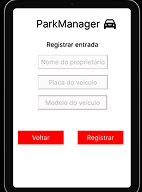
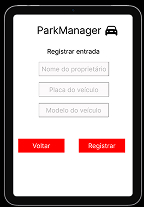
Formatação para tablet arrumada

diff --git a/css/style.css b/css/style.css
@@ -441,7 +441,6 @@ main {
 .registre,
 .saiba {
     width: 460px;
-    font-size: 36px;
     align-items: center;
     justify-content: center;
 }
@@ -449,6 +448,7 @@ main {
 .visualize p,
 .registre p,
 .saiba p {
+    font-size: 36px;
     text-align: center;
 }
 
@@ -507,4 +507,130 @@ footer {
 
 .parkmanager {
     padding: 60px 0px 10px 0px;
+}
+
+/* TABLET - iPad Mini */
+@media(max-width: 1024px) {
+    .animacao {
+        display: none;
+    }
+
+    .titulo p {
+        margin-top: 30px;
+        font-size: 95px;
+    }
+
+    .titulo img {
+        margin-top: 27px;
+    }
+
+    .carrossel {
+        gap: 45px;
+    }
+
+    .seta {
+        width: 70px;
+        height: 70px;
+    }
+
+    .tela1 {
+        width: 157px;
+        height: 212px;
+        background-image: url(../img/tela1-tabl.jpg);
+    }
+
+    .tela2 {
+        width: 144px;
+        height: 207px;
+        background-image: url(../img/tela2-tabl.jpg);
+    }
+
+    .tela3 {
+        width: 144px;
+        height: 210px;
+        background-image: url(../img/tela3-tabl.jpg);
+    }
+
+    .retangulo-branco {
+        height: 65vh;
+    }
+
+    .retangulo-branco p {
+        font-size: 40px;
+        margin: 20px;
+    }
+
+    .descricao p {
+        margin: 10px 20px 20px 20px;
+        font-size: 24px;
+    }
+
+    .vidal img,
+    .rolim img,
+    .jefferson img {
+        width: 150px;
+        height: 150px;
+    }
+
+    .vidal p,
+    .rolim p,
+    .jefferson p {
+        font-size: 24px;
+    }
+
+    .gerencie {
+        font-size: 24px;
+        padding: 50px 0px 40px 0px;
+    }
+
+    .telas {
+        height: 133px;
+        width: 187px;
+    }
+
+    .container {
+        height: 20vh;
+    }
+
+    .visualize,
+    .registre,
+    .saiba {
+        width: 209.3px;
+    }
+
+    .visualize p,
+    .registre p,
+    .saiba p {
+        font-size: 15px;
+    }
+
+    .retangulo h2 {
+        font-size: 48px;
+    }
+
+    .retangulo img {
+        width: 56px;
+        height: 56px;
+    }
+
+    .faleconosco {
+        height: 15vh;
+        gap: 10px;
+        padding-left: 60px;
+    }
+
+    .linkedin p,
+    .github p {
+        font-size: 20px;
+    }
+
+    .linkedin img,
+    .github img {
+        width: 30px;
+        height: 30px;
+    }
+
+    .parkmanager p {
+        font-size: 37px;
+    }
 }
